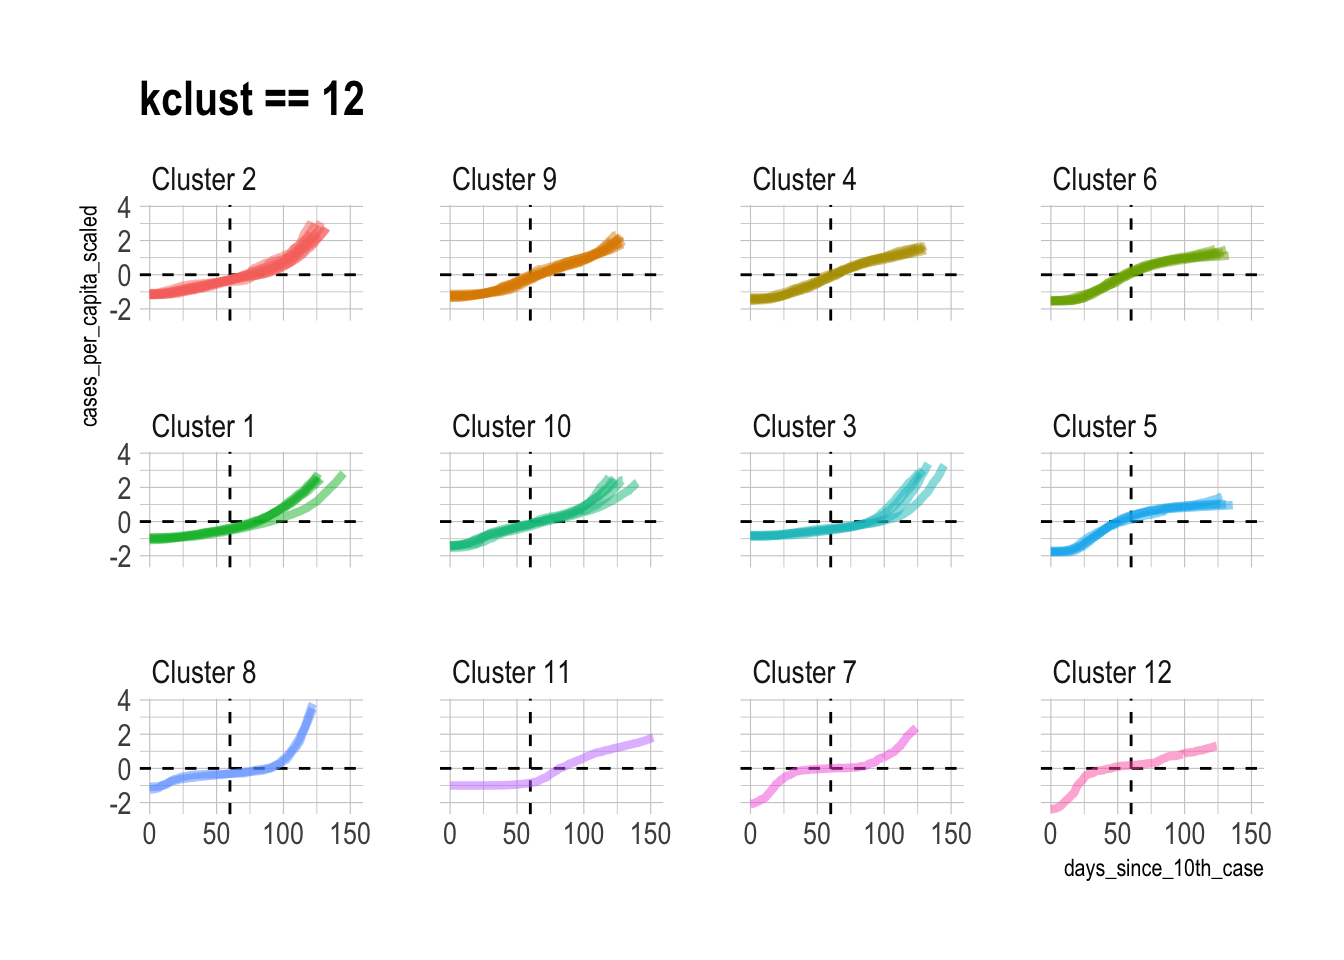
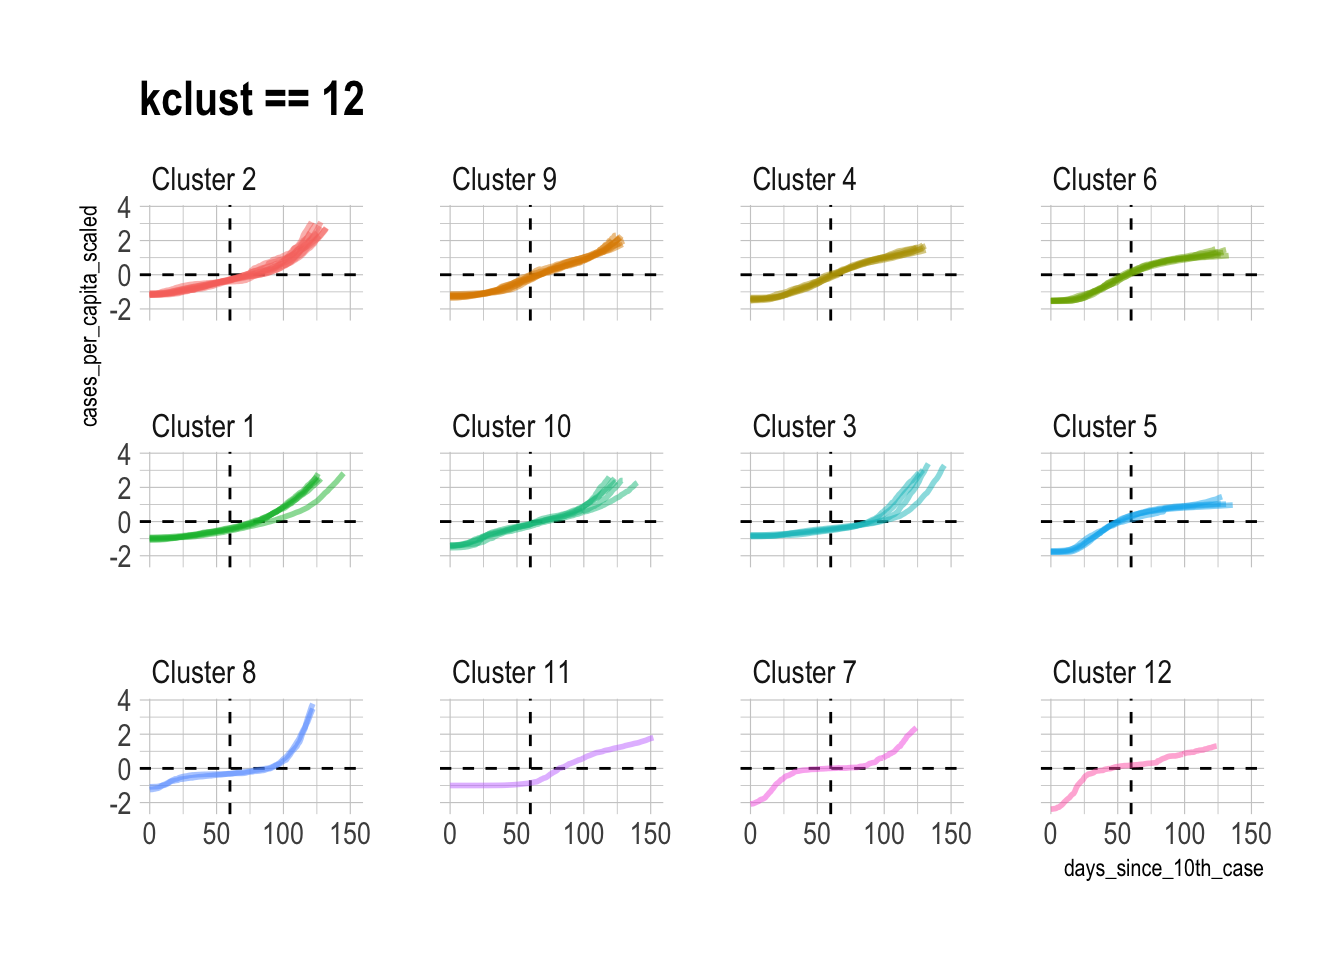
knitted rmd

diff --git a/content/post/2020-07-20-time-series-clustering-covid-19-cases.html b/content/post/2020-07-20-time-series-clustering-covid-19-cases.html
@@ -206,7 +206,7 @@ covid %&gt;%
              color = cluster_assignment, group = state)) +
   geom_hline(yintercept = 0, linetype = 2) +
   geom_vline(xintercept = 60, linetype = 2) +
-  geom_line(size = 1.5, alpha = .5) +
+  geom_line(size = 1, alpha = .5) +
   facet_wrap(~cluster_assignment, ncol = 4) +
   guides(color = FALSE) +
   labs(title = &quot;kclust == 12&quot;)</code></pre>
@@ -251,6 +251,8 @@ state_clustered &lt;- map %&gt;%
   theme(legend.position = &quot;bottom&quot;,
         legend.direction = &quot;horizontal&quot;)</code></pre>
 <p><img src="/post/2020-07-20-time-series-clustering-covid-19-cases_files/figure-html/unnamed-chunk-27-1.png" width="672" /></p>
+<p>Cluster 3 stands out as the group of states that are currently struggling with COVID-19 the most. Interestingly, these states are consistently clustered together regardless of the value of <code>kclust</code>, which means that these states are very similar.</p>
+<p>Cluster 5 represents the states that had the earliest and worst outbreaks, but have beaten back the virus for now. Cluster 6 are the states that were</p>
 <div id="sources" class="section level3">
 <h3>Sources</h3>
 <ul>
